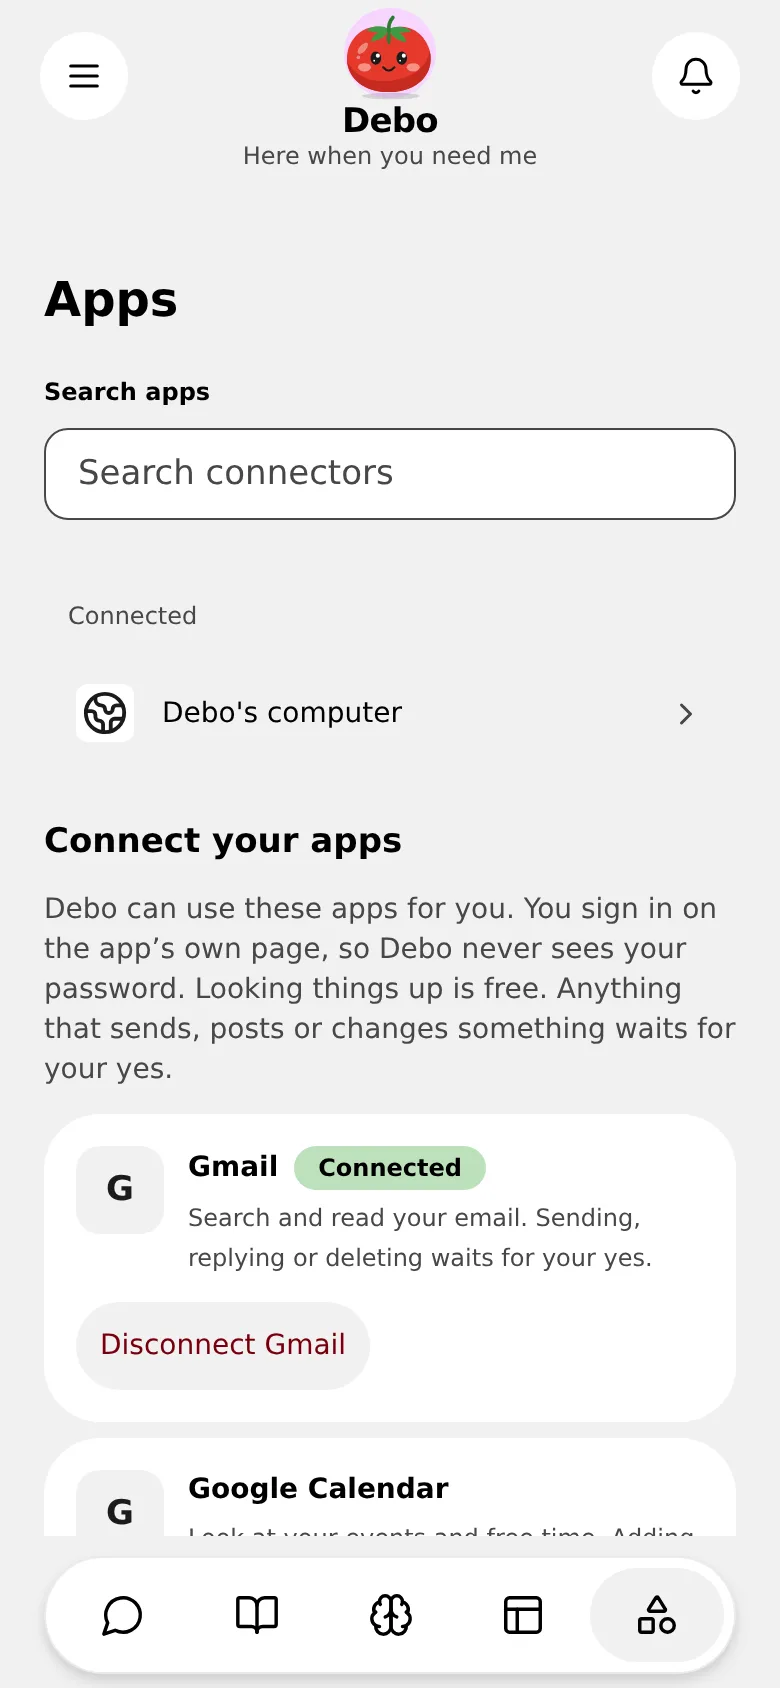
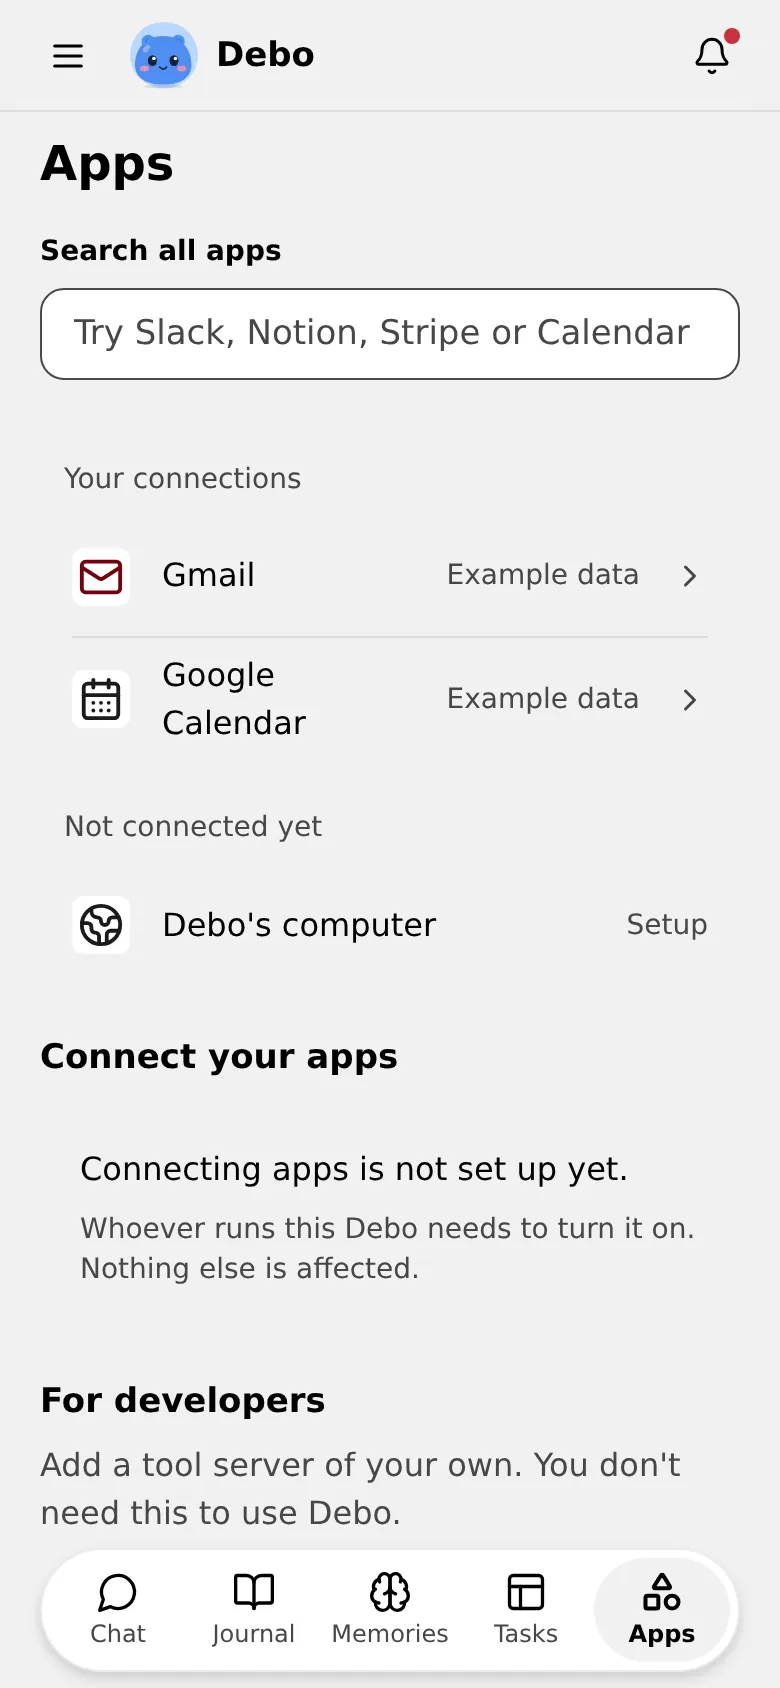
Retake the landing page and pitch screenshots from the demo app
The journal, chat, What Debo knows, Talk and Apps pictures now show the app
after the UI audit fixes, with made-up entries. Same file names and sizes, so
the page does not move. Picture descriptions say what each one now shows.

The pitch site's chat picture is unchanged: demo mode cannot show an answer
with sources, because it runs no model.

diff --git a/apps/site/src/components/showcase.tsx b/apps/site/src/components/showcase.tsx
@@ -8,7 +8,8 @@ import { AskIcon, EyeIcon, MicIcon, PenIcon } from "./icons";
 // How it works: four steps on the left, and on wide screens one phone that
 // stays in view on the right and changes to the screen of the step being read.
 // On phones each step shows its own screenshot instead.
-// The screenshots are real, from the app with a demo account (public/shots).
+// The screenshots are real, from the app in demo mode with made-up entries (public/shots).
+// To take them again, see docs/MEDIA.md.
 type Step = {
   id: string;
   icon: ReactNode;
@@ -31,7 +32,7 @@ const STEPS: Step[] = [
     ],
     shot: {
       src: "/shots/journal-light.webp",
-      alt: `The ${BRAND} journal. A large writing box asks: What happened today? Who did you see? Below it are the day, a Save entry button and a box to find an entry.`,
+      alt: `The ${BRAND} journal. A writing box asks: What happened today? Who did you see? Inside it are the buttons Speak, Record voice, Record video and Add a recording. Below it are the day, a Save entry button and a box to find an entry.`,
     },
   },
   {
@@ -46,7 +47,7 @@ const STEPS: Step[] = [
     ],
     shot: {
       src: "/shots/chat-light.webp",
-      alt: `The ${BRAND} app. ${BRAND} answers a question about getting ready for Mum's visit and a Goa trip: clean the spare room before Mum arrives, talk to Neha and Aarav, and it says plainly that the journal does not give Mum's arrival date.`,
+      alt: `The ${BRAND} chat before you ask anything. ${BRAND} says: I keep your journal and remember what is in it. Ask me about your days, and I will show you which entry each answer came from. Below are three suggestions, Write in my journal, What did I do last week? and See what ${BRAND} knows, and a box to type a message.`,
     },
   },
   {
@@ -61,7 +62,7 @@ const STEPS: Step[] = [
     ],
     shot: {
       src: "/shots/knows-light.webp",
-      alt: `The What ${BRAND} knows page. A memory reads: You plan to water them every second morning while the weather stays warm. It shows the source chip Journal, 11 November and the buttons Fix this memory and Forget this memory.`,
+      alt: `The What ${BRAND} knows page. Each memory, like Long walk by the lake after work, shows the entry it came from, such as Journal, 19 November, and the buttons Fix this and Forget this.`,
     },
   },
   {
@@ -76,7 +77,7 @@ const STEPS: Step[] = [
     ],
     shot: {
       src: "/shots/talk-light.webp",
-      alt: `A voice call with ${BRAND}. The red tomato sits above the word Listening and Microphone on. ${BRAND} has said: Hey! I'm here. What's on your mind? Buttons below: Mic on, Stop ${BRAND}, Type and End.`,
+      alt: `The Talk screen before a call. A card at the top is waiting for your yes: Create Coffee with Jamie, ${BRAND} will change your calendar, with the buttons Approve and Not now. Below are ${BRAND}'s face, Tap to start and Microphone off, and three points: ${BRAND} listens only during the call, what you say is saved as text in your journal, and you can mute or end the call at any time.`,
     },
   },
 ];

diff --git a/apps/pitch/src/components/deck.tsx b/apps/pitch/src/components/deck.tsx
@@ -121,11 +121,11 @@ export function Solution() {
 }
 
 const SHOTS = [
-  { src: "/shots/journal-light.webp", w: 780, h: 933, title: "Journal", alt: "The Debo journal. Entries from 11 November sit in a list, each with the buttons Change entry and Delete entry.", text: "Write or record. Edit and delete any entry." },
+  { src: "/shots/journal-light.webp", w: 780, h: 933, title: "Journal", alt: "The Debo journal. A box to find an entry, then entries from 19 and 18 November, each with the buttons Change entry and Delete entry.", text: "Write or record. Edit and delete any entry." },
   { src: "/shots/chat-light.webp", w: 780, h: 767, title: "Ask", alt: "The Debo chat. A person asks what they planted on the balcony and Debo answers with a source chip.", text: "Answers with a chip for every source." },
-  { src: "/shots/knows-light.webp", w: 780, h: 1067, title: "What Debo knows", alt: "The What Debo knows page. A memory with its source chip and the buttons Fix this memory and Forget this memory.", text: "Every memory, with fix and forget." },
-  { src: "/shots/talk-light.webp", w: 780, h: 833, title: "Talk", alt: "The Talk to Debo screen. A status line reads: Microphone off, Debo is not listening. A button says Start talking.", text: "Speak, with a clear microphone light." },
-  { src: "/shots/apps-light.webp", w: 780, h: 1067, title: "Apps", alt: "The Apps screen in Debo, with Gmail and Google Calendar listed as not connected yet.", text: "Connect apps one at a time." },
+  { src: "/shots/knows-light.webp", w: 780, h: 1067, title: "What Debo knows", alt: "The What Debo knows page. Each memory shows its source chip, like Journal, 19 November, and the buttons Fix this and Forget this.", text: "Every memory, with fix and forget." },
+  { src: "/shots/talk-light.webp", w: 780, h: 833, title: "Talk", alt: "The Talk screen in Debo. Above Debo's face, a card waiting for your yes: Create Coffee with Jamie, Debo will change your calendar, with the buttons Approve and Not now.", text: "Talk, and say yes before anything changes." },
+  { src: "/shots/apps-light.webp", w: 780, h: 1067, title: "Apps", alt: "The Apps screen in Debo. Gmail and Google Calendar show example data, and Debo's computer is not connected yet.", text: "Connect apps one at a time." },
 ];
 
 export function Product() {
@@ -135,7 +135,7 @@ export function Product() {
         id="product"
         badge="4. Product"
         title="What it looks like today"
-        lead="Real screenshots of the app at my.debo.life, with made-up demo entries."
+        lead="Real screenshots of the app, with made-up demo entries."
       />
       <Grid columns={{ minWidth: 220, repeat: "fit" }} gap={5} align="start">
         {SHOTS.map((shot) => (
